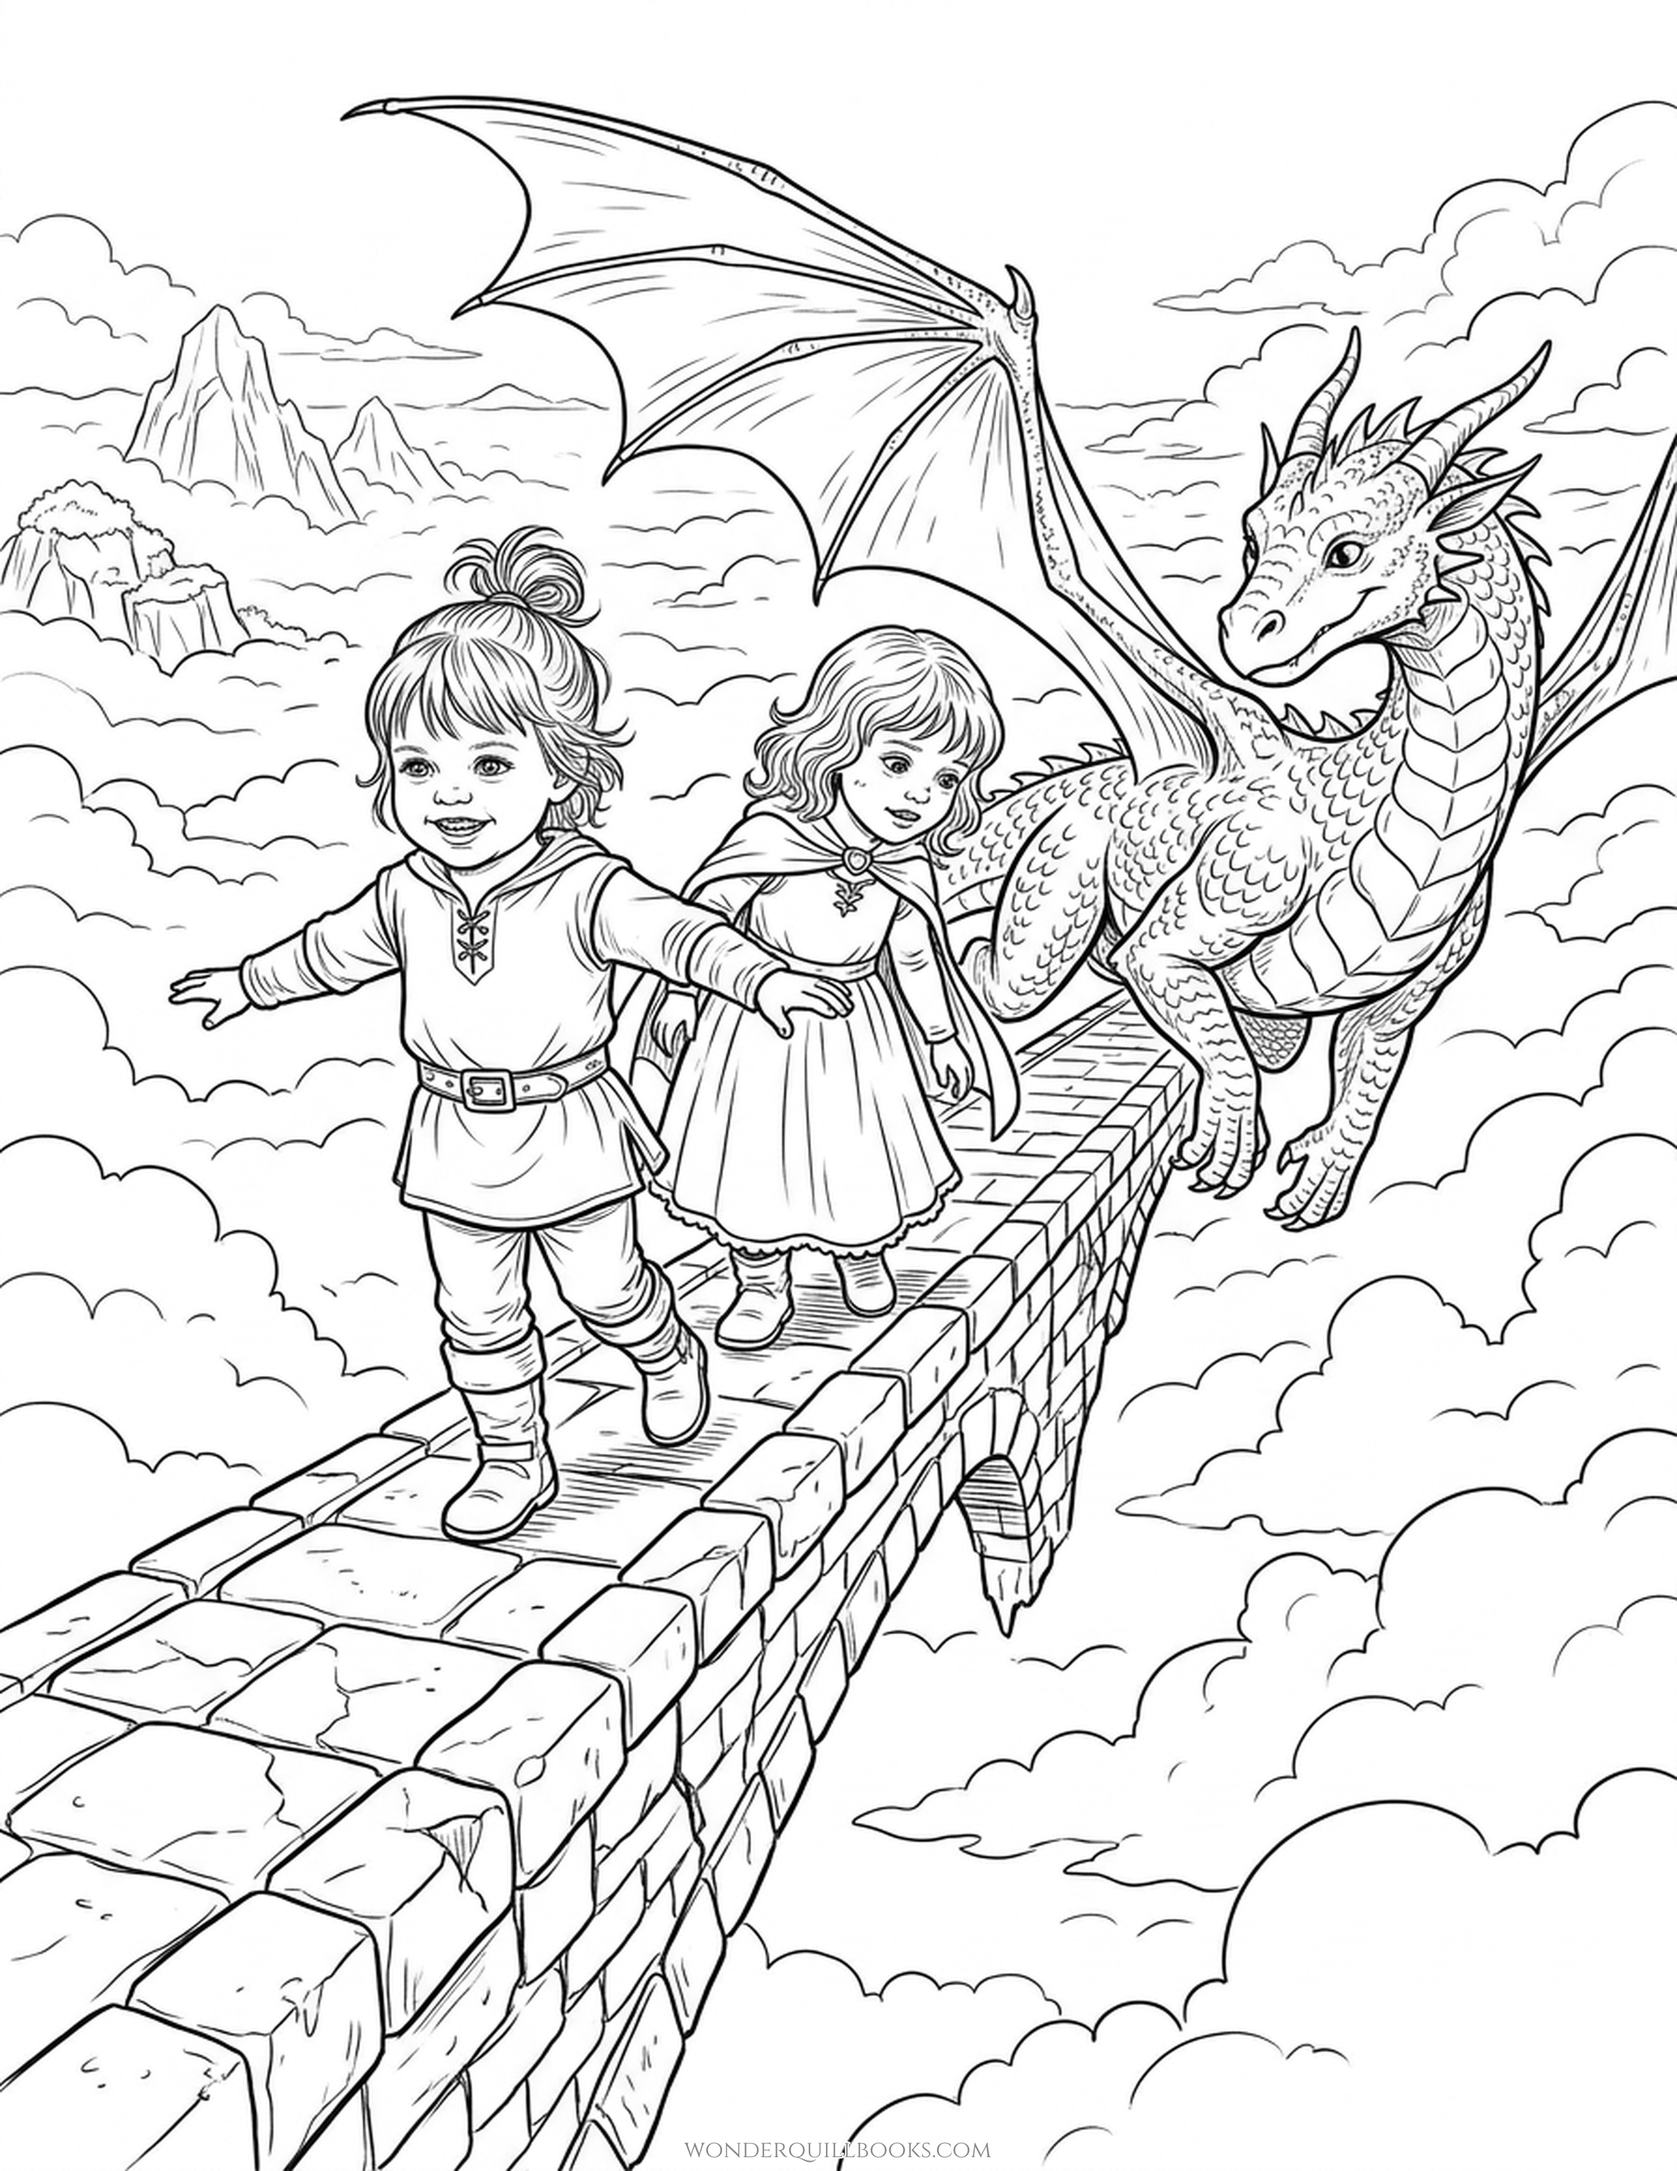
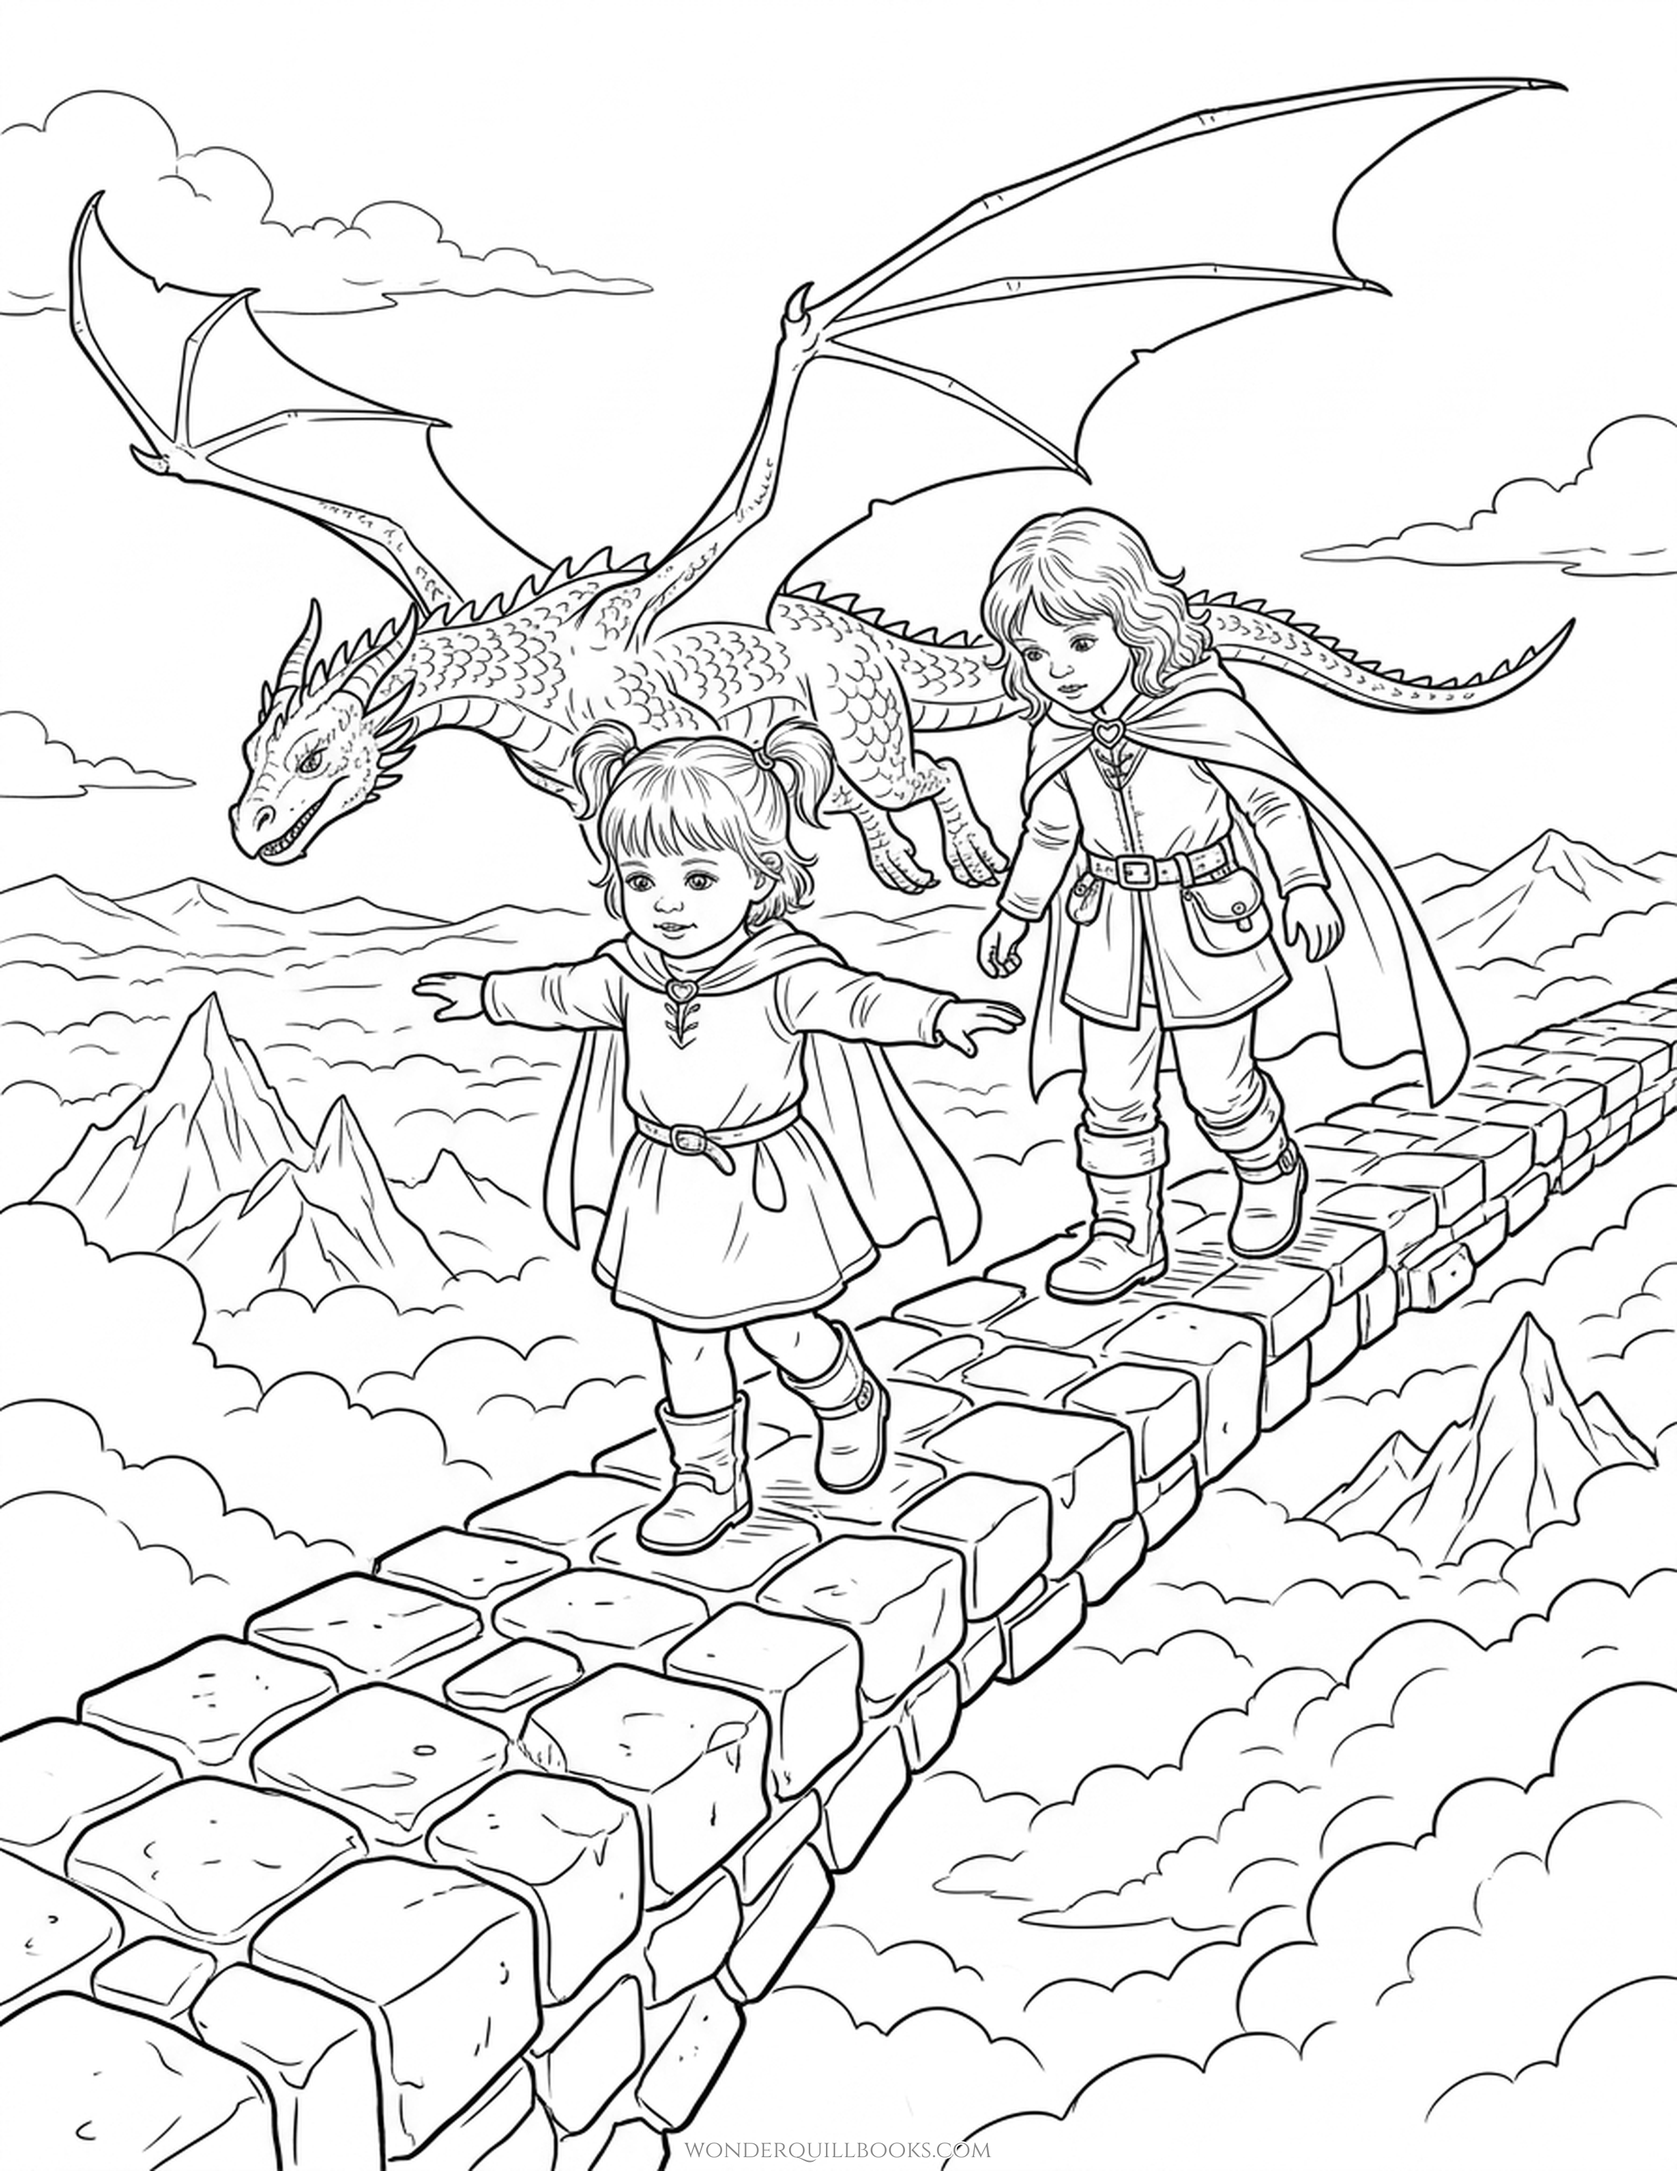
julie order done

diff --git a/src/storybook_factory/image_provider.py b/src/storybook_factory/image_provider.py
@@ -101,6 +101,9 @@ class ImageProvider:
                 vertexai=False,
             )
 
+        # Stores the exact prompt string sent to the model on the last generate call.
+        self.last_prompt: str = ""
+
     @staticmethod
     def _normalize_px(val, name: str):
         if isinstance(val, dict):
@@ -276,11 +279,18 @@ class ImageProvider:
             if refs:
                 contents = []
 
-                # 1. STYLE ANCHOR — first ref is always the global style reference
-                contents.append(
+                STYLE_ANCHOR_TEXT = (
                     "STYLE ANCHOR: Use this image ONLY for line-weight, stroke style, "
                     "and coloring book aesthetic."
                 )
+                CRITICAL_TEXT = "CRITICAL: Do NOT copy the children's faces or identities from the image above."
+                IDENTITY_TEXT = (
+                    "NEW CHARACTER IDENTITY: Use the images below ONLY for the "
+                    "facial features, hair, and likeness of the characters."
+                )
+
+                # 1. STYLE ANCHOR — first ref is always the global style reference
+                contents.append(STYLE_ANCHOR_TEXT)
                 with open(refs[0], "rb") as f:
                     contents.append(
                         _google_types.Part.from_bytes(
@@ -292,36 +302,12 @@ class ImageProvider:
                             ),
                         )
                     )
-                contents.append(
-                    "CRITICAL: Do NOT copy the children's faces or identities from the image above."
-                )
+                contents.append(CRITICAL_TEXT)
 
                 # 2. CHARACTER IDENTITY — remaining refs are character photos.
-                # Parse role labels from the REFERENCES block already in the prompt
-                # (e.g. "human_01", "human_02", "companion") so each image is labelled
-                # with its actual role rather than a generic Human-0N index.
                 if len(refs) > 1:
-                    # Extract ordered role labels from REFERENCES block in prompt
-                    role_labels: list[str] = []
-                    for line in prompt.splitlines():
-                        line = line.strip()
-                        if line.startswith("REFERENCES:") or not line:
-                            continue
-                        # Lines look like "human_01: [2], [3]" or "companion: [4]"
-                        if ":" in line and not line.startswith("style_reference"):
-                            role_labels.append(line.split(":")[0].strip())
-
-                    contents.append(
-                        "NEW CHARACTER IDENTITY: Use the images below ONLY for the "
-                        "facial features, hair, and likeness of the characters."
-                    )
-                    for i, char_ref in enumerate(refs[1:]):
-                        label = (
-                            role_labels[i]
-                            if i < len(role_labels)
-                            else f"character_{i + 1}"
-                        )
-                        contents.append(f"Identity Reference for {label}:")
+                    contents.append(IDENTITY_TEXT)
+                    for char_ref in refs[1:]:
                         with open(char_ref, "rb") as f:
                             contents.append(
                                 _google_types.Part.from_bytes(
@@ -334,13 +320,24 @@ class ImageProvider:
                                 )
                             )
 
-                # 3. FINAL COMMAND — scene instructions + reminder
-                final_prompt = (
-                    f"SCENE INSTRUCTIONS:\n{prompt}\n\n"
-                    "FINAL REMINDER: The characters MUST look like the 'NEW CHARACTER IDENTITY' "
-                    "images, NOT the 'STYLE ANCHOR' image."
+                # 3. Scene instructions — keep REFERENCES index block intact so the
+                # model knows which numbered image maps to which character role.
+                contents.append(prompt)
+
+                # Record exact text contents sent to model (images noted by filename)
+                self.last_prompt = "\n".join(
+                    [
+                        STYLE_ANCHOR_TEXT,
+                        f"[image: {refs[0].name}]",
+                        CRITICAL_TEXT,
+                    ]
+                    + (
+                        [IDENTITY_TEXT] + [f"[image: {r.name}]" for r in refs[1:]]
+                        if len(refs) > 1
+                        else []
+                    )
+                    + [prompt]
                 )
-                contents.append(final_prompt)
 
                 response = self._google_client.models.generate_content(
                     model=clean_model,
@@ -402,6 +399,7 @@ class ImageProvider:
 
             else:
                 # Text-to-image: use generate_content for image preview models
+                self.last_prompt = prompt
                 response = self._google_client.models.generate_content(
                     model=clean_model,
                     contents=prompt,

diff --git a/src/storybook_factory/generator.py b/src/storybook_factory/generator.py
@@ -87,6 +87,32 @@ def _extract_cast(brief: dict[str, Any]) -> tuple[list[str], list[str]]:
     return child_descs, pet_descs
 
 
+def _extract_gender_age(desc: str) -> str:
+    """
+    Pull just the age and gender tokens from a character description so they
+    can be injected into the prompt even when full appearance descriptions are
+    suppressed (i.e. when reference photos are present).
+
+    e.g. '5yo girl, wavy hair, dark eyes' → '5yo girl'
+         '3-year-old boy, curly hair'      → '3-year-old boy'
+    """
+    import re
+
+    # Match patterns like "5yo girl", "3yo boy", "3-year-old girl", "5 year old boy"
+    m = re.search(
+        r"(\d+[\-\s]?(?:yo|year[s]?[\s\-]?old)?)\s*(girl|boy|child|kid)",
+        desc,
+        re.IGNORECASE,
+    )
+    if m:
+        return m.group(0).strip()
+    # Fall back to just girl/boy if no age found
+    m2 = re.search(r"\b(girl|boy)\b", desc, re.IGNORECASE)
+    if m2:
+        return m2.group(0).strip()
+    return ""
+
+
 def _join_human(names: list[str], fallback: str) -> str:
     if not names:
         return fallback
@@ -338,8 +364,19 @@ def _build_context(brief: dict[str, Any], theme: dict[str, Any]) -> dict[str, An
     outfit_hint = str(brief.get("outfit_hint", "")).strip()
 
     if has_refs:
-        # Reference build: no text appearance lines; outfit hint only if set
-        character_bible = f"Outfit: {outfit_hint}" if outfit_hint else ""
+        # Reference build: photos are authoritative for appearance.
+        # Only inject gender/age (not hair/eyes) to avoid conflicting with photos,
+        # plus outfit hint. Ages imply relative size.
+        ref_char_lines: list[str] = []
+        roles = ["human_01", "human_02"]
+        for i, desc in enumerate(child_descs):
+            role = roles[i] if i < len(roles) else f"human_0{i+1}"
+            gender_age = _extract_gender_age(desc)
+            if gender_age:
+                ref_char_lines.append(f"{role} is a {gender_age}")
+        if outfit_hint:
+            ref_char_lines.append(f"Outfit: {outfit_hint}")
+        character_bible = "\n".join(ref_char_lines)
     else:
         character_bible_lines: list[str] = []
 
